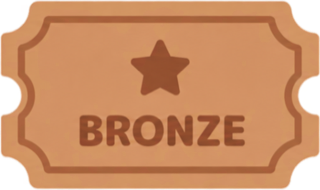
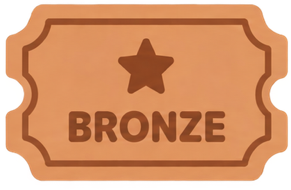
feat(GD-320): 응모권 그림을 image 310으로 바꾸고 적립 카드 보상에 응모권 그림 표시
- 브실골플 응모권을 글자가 진한 피그마 image 310 그림으로 교체하고 '?' 응모권을 추가한다
- 등급이 정해진 출석 보상은 브론즈, 받을 때 등급을 뽑는 미션·게임 보상은 '?' 응모권을 보인다

diff --git a/src/widgets/ticketBalance/ui/TicketBalanceWidget.tsx b/src/widgets/ticketBalance/ui/TicketBalanceWidget.tsx
@@ -1,6 +1,6 @@
 import type { LucideIcon } from 'lucide-react';
 
-import { CalendarCheck, ChevronRight, ClipboardList, Gamepad2, Ticket } from 'lucide-react';
+import { CalendarCheck, ChevronRight, ClipboardList, Gamepad2 } from 'lucide-react';
 import { Link } from 'react-router-dom';
 
 import type { Game } from '@entities/game';
@@ -14,6 +14,7 @@ import {
     useGameStatisticsList,
 } from '@entities/game';
 import { isMissionOpenByServerTime, missionThumbnail, useMissionList } from '@entities/mission';
+import { TICKET_GRADE_IMAGE, TICKET_RANDOM_IMAGE } from '@entities/ticket';
 import { useSessionStore } from '@entities/user';
 import { hasGamePlayer } from '@features/playGame';
 import { useDragScroll } from '@shared/hooks/useDragScroll';
@@ -33,6 +34,8 @@ interface EarnCard extends OrderableEarnCard {
     description: string;
     /** 스텁에 적는 보상 단위 — 출석은 브론즈 고정, 미션·게임은 지급 시 확률 추첨의 등급 응모권 (getddo-spec ticket.md) */
     rewardKind: string;
+    /** 보상 옆 응모권 그림 — 등급이 정해진 출석은 브론즈, 받을 때 등급을 뽑는 미션·게임은 '?' 응모권 */
+    rewardImage: string;
     href: string;
     actionLabel: string;
     /** 카드 상단 썸네일 — 이미지가 있으면 보여주고(출석·미션·게임), 없으면 회색 블록 + 아이콘 */
@@ -91,6 +94,7 @@ export function TicketBalanceWidget({
                       title: '오늘 출석 체크',
                       description: '하루 한 번, 누르면 바로 받아요',
                       rewardKind: '브론즈 응모권',
+                      rewardImage: TICKET_GRADE_IMAGE.BRONZE,
                       rewardTickets: attendance.dailyRewardTicketCount,
                       // 미션 페이지의 출석 섹션으로 바로 내려간다 (missionList MISSION_SECTION_IDS.attendance)
                       href: '/missions#today-attendance',
@@ -111,6 +115,7 @@ export function TicketBalanceWidget({
                 title: mission.title,
                 description: '미션 완료 시 등급 추첨 응모권을 받아요',
                 rewardKind: '등급 응모권',
+                rewardImage: TICKET_RANDOM_IMAGE,
                 rewardTickets: mission.rewardTicketCount,
                 // 미션 페이지에서 그 미션의 풀이 모달을 바로 연다
                 href: `/missions?mission=${mission.id}`,
@@ -127,6 +132,7 @@ export function TicketBalanceWidget({
                 title: game.name,
                 description: '게임별 최소 점수로 완료하면 하루 1장, 횟수 제한 없이 플레이',
                 rewardKind: '등급 응모권',
+                rewardImage: TICKET_RANDOM_IMAGE,
                 rewardTickets: 1,
                 href: gameDetailPath(game.id),
                 actionLabel: '게임하러 가기',
@@ -199,6 +205,7 @@ export function TicketBalanceWidget({
                                 <GameTicketCard
                                     game={card.game}
                                     rewardedToday={claimed(card.game.id)}
+                                    rewardImage={card.rewardImage}
                                     href={card.href}
                                     ready={hasGamePlayer(card.game.code)}
                                     className="w-full"
@@ -229,7 +236,13 @@ function EarnTicketCard({ card }: { card: EarnCard }) {
                     <div className="mt-3.75 flex h-4.5 items-center justify-between gap-2">
                         <span className="text-fg-tertiary text-caption">{card.rewardKind}</span>
                         <span className="text-fg-primary text-body-sm-bold flex items-center gap-1">
-                            <Ticket className="size-4.5" />+{card.rewardTickets}
+                            <img
+                                src={card.rewardImage}
+                                alt=""
+                                aria-hidden
+                                className="h-4.5 w-auto object-contain"
+                            />
+                            +{card.rewardTickets}
                         </span>
                     </div>
                     {card.completed ? (

diff --git a/src/entities/game/ui/GameTicketCard.tsx b/src/entities/game/ui/GameTicketCard.tsx
@@ -1,4 +1,4 @@
-import { Gamepad2, Ticket } from 'lucide-react';
+import { Gamepad2 } from 'lucide-react';
 import { Link } from 'react-router-dom';
 
 import { Button } from '@shared/ui/button';
@@ -23,9 +23,15 @@ export function GameTicketCard({
     fluid = false,
     className,
     rewardedToday,
+    rewardImage,
 }: {
     game: Game;
     rewardedToday?: boolean;
+    /**
+     * 보상 응모권 그림 — 게임 보상은 받을 때 등급을 뽑아 '?' 응모권을 쓴다.
+     * 응모권 그림은 entities/ticket에 있어 같은 레이어끼리 참조할 수 없으므로 부르는 위젯이 넘긴다
+     */
+    rewardImage: string;
     href: string;
     /** 플레이 화면이 준비됐는지 — false면 버튼을 '준비 중'으로 막는다 */
     ready?: boolean;
@@ -52,7 +58,13 @@ export function GameTicketCard({
                             <span className="text-caption text-fg-tertiary">오늘 받음</span>
                         ) : (
                             <span className="text-body-sm-bold text-fg-primary flex items-center gap-1">
-                                <Ticket aria-hidden className="size-4.5" />+{DAILY_GAME_REWARD}
+                                <img
+                                    src={rewardImage}
+                                    alt=""
+                                    aria-hidden
+                                    className="h-4.5 w-auto object-contain"
+                                />
+                                +{DAILY_GAME_REWARD}
                             </span>
                         )}
                     </div>

diff --git a/src/entities/ticket/model/gradeImage.ts b/src/entities/ticket/model/gradeImage.ts
@@ -3,15 +3,22 @@ import type { TicketGrade } from './types';
 import bronze from '../assets/ticket-bronze.png';
 import gold from '../assets/ticket-gold.png';
 import platinum from '../assets/ticket-platinum.png';
+import random from '../assets/ticket-random.png';
 import silver from '../assets/ticket-silver.png';
 
-/** 등급별 응모권 그림 — 피그마 image 278 네 장을 한 장씩 잘랐다 (가로 5 : 세로 3, 투명 바탕) */
+/** 등급별 응모권 그림 — 피그마 02 Screens image 310 앞 네 장을 한 장씩 잘랐다 (291×190, 투명 바탕). 글자가 진해 작게 써도 읽힌다 */
 export const TICKET_GRADE_IMAGE: Record<TicketGrade, string> = {
     BRONZE: bronze,
     SILVER: silver,
     GOLD: gold,
     PLATINUM: platinum,
 };
+
+/**
+ * 받을 때 등급이 정해지는 응모권('?' 응모권) — 미션·게임 보상처럼 지급 시 확률로 등급을 뽑는 경우.
+ * 출석처럼 등급이 정해진 보상은 TICKET_GRADE_IMAGE의 그 등급 그림을 쓴다. 피그마 02 Screens image 310의 다섯째 장
+ */
+export const TICKET_RANDOM_IMAGE = random;
 
 /** 화면에 늘어놓을 때의 등급 순서 — 낮은 등급부터 */
 export const TICKET_GRADES: readonly TicketGrade[] = ['BRONZE', 'SILVER', 'GOLD', 'PLATINUM'];

diff --git a/src/widgets/gameRail/ui/GameRail.tsx b/src/widgets/gameRail/ui/GameRail.tsx
@@ -1,4 +1,5 @@
 import { GameTicketCard, gameDetailPath, useGameList, useGameStatisticsList } from '@entities/game';
+import { TICKET_RANDOM_IMAGE } from '@entities/ticket';
 import { useSessionStore } from '@entities/user';
 import { hasGamePlayer } from '@features/playGame';
 import { useDragScroll } from '@shared/hooks/useDragScroll';
@@ -75,6 +76,7 @@ export function GameRail({
                             key={game.id}
                             game={game}
                             rewardedToday={claimed(game.id)}
+                            rewardImage={TICKET_RANDOM_IMAGE}
                             href={gameDetailPath(game.id)}
                             ready={hasGamePlayer(game.code)}
                             fluid
@@ -93,6 +95,7 @@ export function GameRail({
                             <GameTicketCard
                                 game={game}
                                 rewardedToday={claimed(game.id)}
+                                rewardImage={TICKET_RANDOM_IMAGE}
                                 href={gameDetailPath(game.id)}
                                 ready={hasGamePlayer(game.code)}
                             />

diff --git a/src/entities/ticket/index.ts b/src/entities/ticket/index.ts
@@ -12,7 +12,7 @@ export {
     TICKET_GRADE_ODDS,
     TICKET_GRADE_WEIGHT,
 } from './model/grade';
-export { TICKET_GRADE_IMAGE, TICKET_GRADES } from './model/gradeImage';
+export { TICKET_GRADE_IMAGE, TICKET_GRADES, TICKET_RANDOM_IMAGE } from './model/gradeImage';
 export { TICKET_OPERATION_DELTA } from './model/operation';
 export {
     MY_TICKETS_API_PATH,
